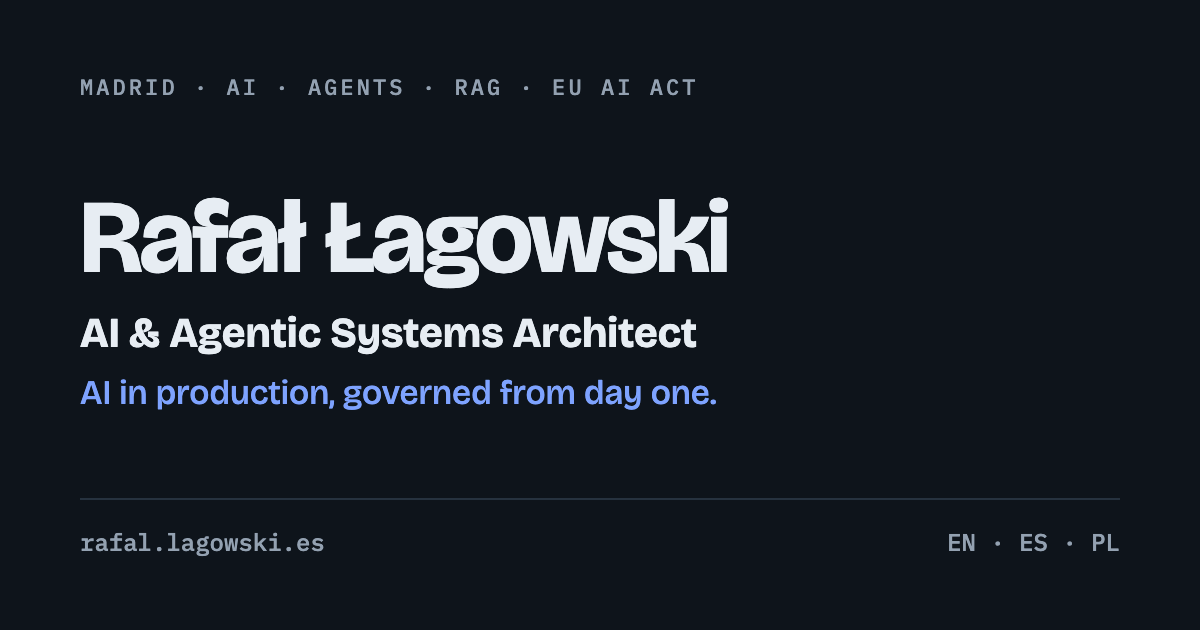
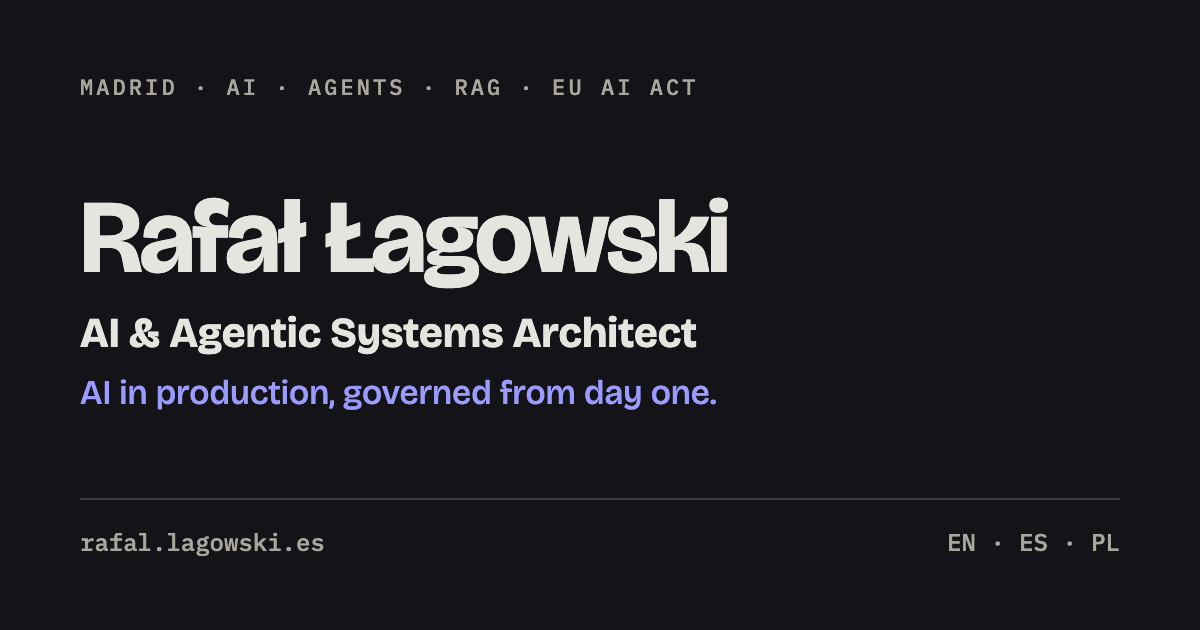
Host on k3s, adopt labs.lagowski.es palette
Add k8s manifests and deploy script (nginx + ConfigMaps, Traefik, cert-manager),
drop GitHub Pages CNAME, switch colour tokens to the labs.lagowski.es palette.

Changed region(s): [[0.0617, 0.6032, 0.5858, 0.6635]]

diff --git a/assets/site.css b/assets/site.css
@@ -1,17 +1,17 @@
-/* rafal.lagowski.es. Layout: header with brand, language switch and nav row; content pages share one column; services read as catalogue rows. */
+/* rafal.lagowski.es. Colours follow labs.lagowski.es (tokens.css): off-white page, one blue accent. Layout: header with brand, language switch and nav row; content pages share one column; services read as catalogue rows. */
 :root{
-  --bg:#f2f4f6; --surface:#ffffff; --ink:#131c26; --muted:#566474; --line:#d3dae1;
-  --accent:#1f4ed8; --accent-ink:#ffffff; --tint:#e6ecf9; --ok:#14804a; --warn:#b45309; --bad:#b42318;
+  --bg:#f6f5f2; --surface:#fcfbf8; --ink:#1f1f1f; --muted:#5f5d56; --line:#dcdad4;
+  --accent:#2f2ff2; --accent-ink:#ffffff; --tint:#ebebf9; --tint-line:#a3a3f2; --ok:#14804a; --warn:#b45309; --bad:#9a4e36;
   --display:"Bricolage Grotesque","Helvetica Neue",Arial,sans-serif;
   --body:"IBM Plex Sans","Helvetica Neue",Arial,sans-serif;
   --mono:"IBM Plex Mono",ui-monospace,Menlo,Consolas,monospace;
 }
 @media (prefers-color-scheme: dark){:root:not([data-theme="light"]){
-  --bg:#0e141b; --surface:#151d27; --ink:#e7edf3; --muted:#93a1b1; --line:#26323f;
-  --accent:#7ea3ff; --accent-ink:#0e141b; --tint:#1a2638; --ok:#4ade80; --warn:#fbbf24; --bad:#f87171; color-scheme:dark}}
+  --bg:#141317; --surface:#1e1d22; --ink:#e6e4df; --muted:#a9a69d; --line:#3b3943;
+  --accent:#9a9aff; --accent-ink:#141317; --tint:#1c1b30; --tint-line:#4f4ea8; --ok:#4ade80; --warn:#fbbf24; --bad:#e8957a; color-scheme:dark}}
 :root[data-theme="dark"]{
-  --bg:#0e141b; --surface:#151d27; --ink:#e7edf3; --muted:#93a1b1; --line:#26323f;
-  --accent:#7ea3ff; --accent-ink:#0e141b; --tint:#1a2638; --ok:#4ade80; --warn:#fbbf24; --bad:#f87171; color-scheme:dark}
+  --bg:#141317; --surface:#1e1d22; --ink:#e6e4df; --muted:#a9a69d; --line:#3b3943;
+  --accent:#9a9aff; --accent-ink:#141317; --tint:#1c1b30; --tint-line:#4f4ea8; --ok:#4ade80; --warn:#fbbf24; --bad:#e8957a; color-scheme:dark}
 *{box-sizing:border-box}
 html{scroll-behavior:smooth}
 [hidden]{display:none!important}
@@ -106,7 +106,7 @@ a.card.big:hover{border-color:var(--accent)}
 .faq summary::after{content:"+";position:absolute;right:4px;top:12px;font:400 24px var(--mono);color:var(--accent)}
 .faq details[open] summary::after{content:"\2212"}
 .faq p{margin:0 0 16px;color:var(--muted);max-width:66ch}
-.cta-band{background:var(--tint);border:0;border-radius:12px;padding:32px;margin-block:24px}
+.cta-band{background:var(--tint);border:1px solid var(--tint-line);border-radius:12px;padding:32px;margin-block:24px}
 .cta-band .intro{margin-bottom:20px}
 .contact{background:var(--ink);color:var(--bg);border-radius:14px;padding:clamp(24px,5vw,48px);border:0;margin-block:32px 0}
 .contact h2.s{color:var(--bg)}
@@ -160,7 +160,7 @@ footer{padding-block:32px 40px;font:400 12px/1.6 var(--mono);color:var(--muted)}
 .tagline{font:500 clamp(17px,2.2vw,20px)/1.35 var(--display);color:var(--accent);margin:0 0 24px}
 .feature{display:grid;grid-template-columns:minmax(0,1fr) minmax(0,1.15fr);gap:24px;align-items:center;margin-bottom:16px}
 .feature h3{font-size:26px}
-.video{aspect-ratio:16/9;width:100%;border-radius:10px;border:1px dashed var(--muted);background:var(--tint);display:flex;flex-direction:column;align-items:center;justify-content:center;gap:6px;text-align:center;padding:16px;color:var(--muted);font:400 13px/1.5 var(--mono)}
+.video{aspect-ratio:16/9;width:100%;border-radius:10px;border:1px dashed var(--tint-line);background:var(--tint);display:flex;flex-direction:column;align-items:center;justify-content:center;gap:6px;text-align:center;padding:16px;color:var(--muted);font:400 13px/1.5 var(--mono)}
 .video b{font:700 18px var(--display);color:var(--ink)}
 .video iframe,.video video{width:100%;height:100%;border:0;border-radius:10px}
 .stack{font:400 12px/1.5 var(--mono);color:var(--muted);margin:0 0 10px}

diff --git a/tools/og.html b/tools/og.html
@@ -1,11 +1,11 @@
 <!doctype html><html><head><meta charset="utf-8"><link rel="stylesheet" href="../assets/fonts.css"><style>
 html,body{margin:0;width:1200px;height:630px;overflow:hidden}
-body{background:#0e141b;color:#e7edf3;font-family:"IBM Plex Sans";display:flex;flex-direction:column;justify-content:space-between;padding:72px 80px;box-sizing:border-box}
-.k{font:500 22px "IBM Plex Mono";letter-spacing:.14em;text-transform:uppercase;color:#93a1b1}
+body{background:#141317;color:#e6e4df;font-family:"IBM Plex Sans";display:flex;flex-direction:column;justify-content:space-between;padding:72px 80px;box-sizing:border-box}
+.k{font:500 22px "IBM Plex Mono";letter-spacing:.14em;text-transform:uppercase;color:#a9a69d}
 h1{font:700 104px/1 "Bricolage Grotesque";letter-spacing:-.03em;margin:0 0 18px}
 .r{font:700 42px "Bricolage Grotesque";margin:0 0 14px}
-.t{font:500 34px "Bricolage Grotesque";color:#7ea3ff;margin:0}
-.f{display:flex;justify-content:space-between;font:500 24px "IBM Plex Mono";color:#93a1b1;border-top:2px solid #26323f;padding-top:26px}
+.t{font:500 34px "Bricolage Grotesque";color:#9a9aff;margin:0}
+.f{display:flex;justify-content:space-between;font:500 24px "IBM Plex Mono";color:#a9a69d;border-top:2px solid #3b3943;padding-top:26px}
 </style></head><body><div class="k">Madrid · AI · Agents · RAG · EU AI Act</div>
 <div><h1>Rafał Łagowski</h1><p class="r">AI &amp; Agentic Systems Architect</p><p class="t">AI in production, governed from day one.</p></div>
 <div class="f"><span>rafal.lagowski.es</span><span>EN · ES · PL</span></div></body></html>

diff --git a/tools/icon.html b/tools/icon.html
@@ -1,1 +1,1 @@
-<!doctype html><html><head><meta charset="utf-8"><link rel="stylesheet" href="../assets/fonts.css"><style>html,body{margin:0;width:180px;height:180px;background:#131c26}div{width:180px;height:180px;display:flex;align-items:center;justify-content:center;flex-direction:column;color:#fff;font:700 82px/1 "Bricolage Grotesque";letter-spacing:-.03em}i{display:block;width:96px;height:10px;border-radius:5px;background:#7ea3ff;margin-top:12px}</style></head><body><div>RŁ<i></i></div></body></html>
+<!doctype html><html><head><meta charset="utf-8"><link rel="stylesheet" href="../assets/fonts.css"><style>html,body{margin:0;width:180px;height:180px;background:#1f1f1f}div{width:180px;height:180px;display:flex;align-items:center;justify-content:center;flex-direction:column;color:#fff;font:700 82px/1 "Bricolage Grotesque";letter-spacing:-.03em}i{display:block;width:96px;height:10px;border-radius:5px;background:#9a9aff;margin-top:12px}</style></head><body><div>RŁ<i></i></div></body></html>

diff --git a/index.html b/index.html
@@ -6,8 +6,8 @@
 <title>Rafał Łagowski · AI & Agentic Systems Architect</title>
 <meta name="description" content="Rafał Łagowski, AI &amp; Agentic Systems Architect in Madrid. Agentic systems, RAG, LLMOps and EU AI Act governance in production. Projects, experience and contact.">
 <link rel="canonical" href="https://rafal.lagowski.es/">
-<meta name="theme-color" content="#f2f4f6" media="(prefers-color-scheme: light)">
-<meta name="theme-color" content="#0e141b" media="(prefers-color-scheme: dark)">
+<meta name="theme-color" content="#f6f5f2" media="(prefers-color-scheme: light)">
+<meta name="theme-color" content="#141317" media="(prefers-color-scheme: dark)">
 <meta name="color-scheme" content="light dark">
 <link rel="icon" href="favicon.svg" type="image/svg+xml">
 <link rel="icon" href="favicon.ico" sizes="32x32">

diff --git a/demos.html b/demos.html
@@ -6,8 +6,8 @@
 <title>Interactive AI demos · Rafał Łagowski</title>
 <meta name="description" content="Four in-browser demos: an EU AI Act risk classifier, an assistant with cited sources, a bias audit and an outreach simulator. Sample data, no model calls.">
 <link rel="canonical" href="https://rafal.lagowski.es/demos.html">
-<meta name="theme-color" content="#f2f4f6" media="(prefers-color-scheme: light)">
-<meta name="theme-color" content="#0e141b" media="(prefers-color-scheme: dark)">
+<meta name="theme-color" content="#f6f5f2" media="(prefers-color-scheme: light)">
+<meta name="theme-color" content="#141317" media="(prefers-color-scheme: dark)">
 <meta name="color-scheme" content="light dark">
 <link rel="icon" href="favicon.svg" type="image/svg+xml">
 <link rel="icon" href="favicon.ico" sizes="32x32">

diff --git a/work-with-me.html b/work-with-me.html
@@ -6,8 +6,8 @@
 <title>Work with me · Rafał Łagowski</title>
 <meta name="description" content="Architecture and EU AI Act reviews, agentic system and RAG builds, and team workshops by Rafał Łagowski. Day rate and fixed price agreed in writing.">
 <link rel="canonical" href="https://rafal.lagowski.es/work-with-me.html">
-<meta name="theme-color" content="#f2f4f6" media="(prefers-color-scheme: light)">
-<meta name="theme-color" content="#0e141b" media="(prefers-color-scheme: dark)">
+<meta name="theme-color" content="#f6f5f2" media="(prefers-color-scheme: light)">
+<meta name="theme-color" content="#141317" media="(prefers-color-scheme: dark)">
 <meta name="color-scheme" content="light dark">
 <link rel="icon" href="favicon.svg" type="image/svg+xml">
 <link rel="icon" href="favicon.ico" sizes="32x32">

diff --git a/process.html b/process.html
@@ -6,8 +6,8 @@
 <title>Process · Rafał Łagowski</title>
 <meta name="description" content="How an engagement with Rafał Łagowski works: free call, written recommendation, fixed-price proposal, short deliveries and handover.">
 <link rel="canonical" href="https://rafal.lagowski.es/process.html">
-<meta name="theme-color" content="#f2f4f6" media="(prefers-color-scheme: light)">
-<meta name="theme-color" content="#0e141b" media="(prefers-color-scheme: dark)">
+<meta name="theme-color" content="#f6f5f2" media="(prefers-color-scheme: light)">
+<meta name="theme-color" content="#141317" media="(prefers-color-scheme: dark)">
 <meta name="color-scheme" content="light dark">
 <link rel="icon" href="favicon.svg" type="image/svg+xml">
 <link rel="icon" href="favicon.ico" sizes="32x32">

diff --git a/faq.html b/faq.html
@@ -6,8 +6,8 @@
 <title>FAQ · Rafał Łagowski</title>
 <meta name="description" content="Frequently asked questions about working with Rafał Łagowski: availability, pricing, ownership, data, the EU AI Act and languages.">
 <link rel="canonical" href="https://rafal.lagowski.es/faq.html">
-<meta name="theme-color" content="#f2f4f6" media="(prefers-color-scheme: light)">
-<meta name="theme-color" content="#0e141b" media="(prefers-color-scheme: dark)">
+<meta name="theme-color" content="#f6f5f2" media="(prefers-color-scheme: light)">
+<meta name="theme-color" content="#141317" media="(prefers-color-scheme: dark)">
 <meta name="color-scheme" content="light dark">
 <link rel="icon" href="favicon.svg" type="image/svg+xml">
 <link rel="icon" href="favicon.ico" sizes="32x32">

diff --git a/about.html b/about.html
@@ -6,8 +6,8 @@
 <title>About · Rafał Łagowski</title>
 <meta name="description" content="About Rafał Łagowski: AI and cloud architect and telecommunications engineer based in Madrid, 24 years building technology.">
 <link rel="canonical" href="https://rafal.lagowski.es/about.html">
-<meta name="theme-color" content="#f2f4f6" media="(prefers-color-scheme: light)">
-<meta name="theme-color" content="#0e141b" media="(prefers-color-scheme: dark)">
+<meta name="theme-color" content="#f6f5f2" media="(prefers-color-scheme: light)">
+<meta name="theme-color" content="#141317" media="(prefers-color-scheme: dark)">
 <meta name="color-scheme" content="light dark">
 <link rel="icon" href="favicon.svg" type="image/svg+xml">
 <link rel="icon" href="favicon.ico" sizes="32x32">

diff --git a/404.html b/404.html
@@ -6,8 +6,8 @@
 <title>Page not found · Rafał Łagowski</title>
 <meta name="description" content="Page not found.">
 
-<meta name="theme-color" content="#f2f4f6" media="(prefers-color-scheme: light)">
-<meta name="theme-color" content="#0e141b" media="(prefers-color-scheme: dark)">
+<meta name="theme-color" content="#f6f5f2" media="(prefers-color-scheme: light)">
+<meta name="theme-color" content="#141317" media="(prefers-color-scheme: dark)">
 <meta name="color-scheme" content="light dark">
 <link rel="icon" href="/favicon.svg" type="image/svg+xml">
 <link rel="icon" href="/favicon.ico" sizes="32x32">

diff --git a/tools/gen.py b/tools/gen.py
@@ -95,8 +95,8 @@ def page(fname, key, titles, desc, main, extra_head='', scripts=('assets/site.js
 <title>{t_en}</title>
 <meta name="description" content="{esc(desc)}">
 {canon_tag}
-<meta name="theme-color" content="#f2f4f6" media="(prefers-color-scheme: light)">
-<meta name="theme-color" content="#0e141b" media="(prefers-color-scheme: dark)">
+<meta name="theme-color" content="#f6f5f2" media="(prefers-color-scheme: light)">
+<meta name="theme-color" content="#141317" media="(prefers-color-scheme: dark)">
 <meta name="color-scheme" content="light dark">
 <link rel="icon" href="{prefix}favicon.svg" type="image/svg+xml">
 <link rel="icon" href="{prefix}favicon.ico" sizes="32x32">

diff --git a/README.md b/README.md
@@ -1,12 +1,19 @@
 # rafal.lagowski.es
 
 Personal expert profile of Rafał Łagowski, AI & Agentic Systems Architect.
-Plain static HTML, CSS and vanilla JS, served by GitHub Pages straight from the
-repository root. No build step, no framework, no trackers. Fonts are self-hosted.
+Plain static HTML, CSS and vanilla JS, served by nginx on the k3s cluster
+(namespace `rafal-site`, Traefik ingress, Let's Encrypt via cert-manager). No build step, no framework, no trackers. Fonts are self-hosted; colours follow labs.lagowski.es.
 
 Languages: EN (default), ES, PL. The switch sets a class on `<body>` and stores
 the choice in `localStorage` under `lagowski-lang`; first visits follow the
 browser language when it is Spanish or Polish.
+
+## Deploying
+
+    k8s/deploy.sh            # kube context defaults to k3s-remote
+
+The script loads the files into ConfigMaps and rolls the nginx pod.
+DNS: `rafal.lagowski.es` A record -> the cluster IP.
 
 ## Editing
 
